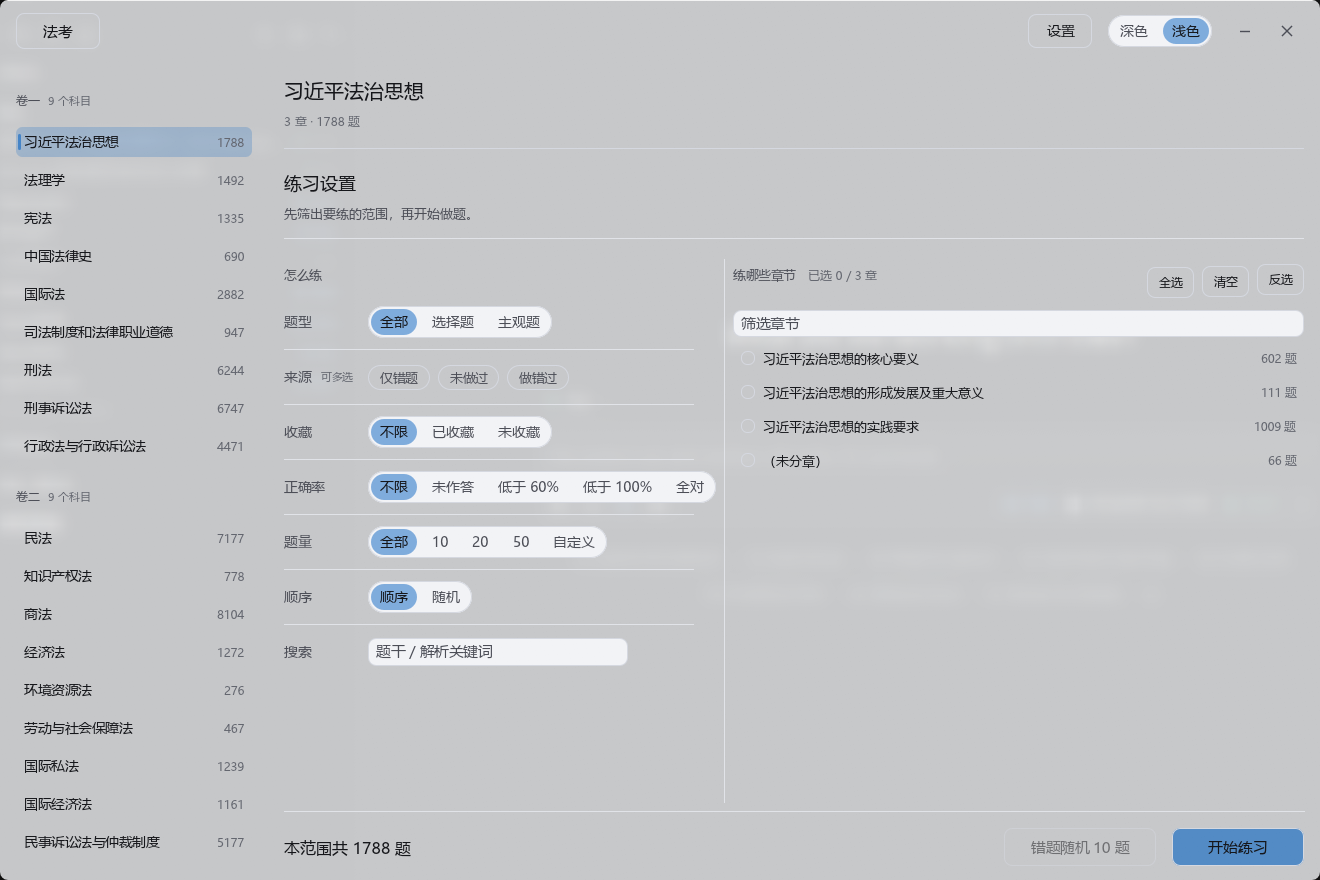
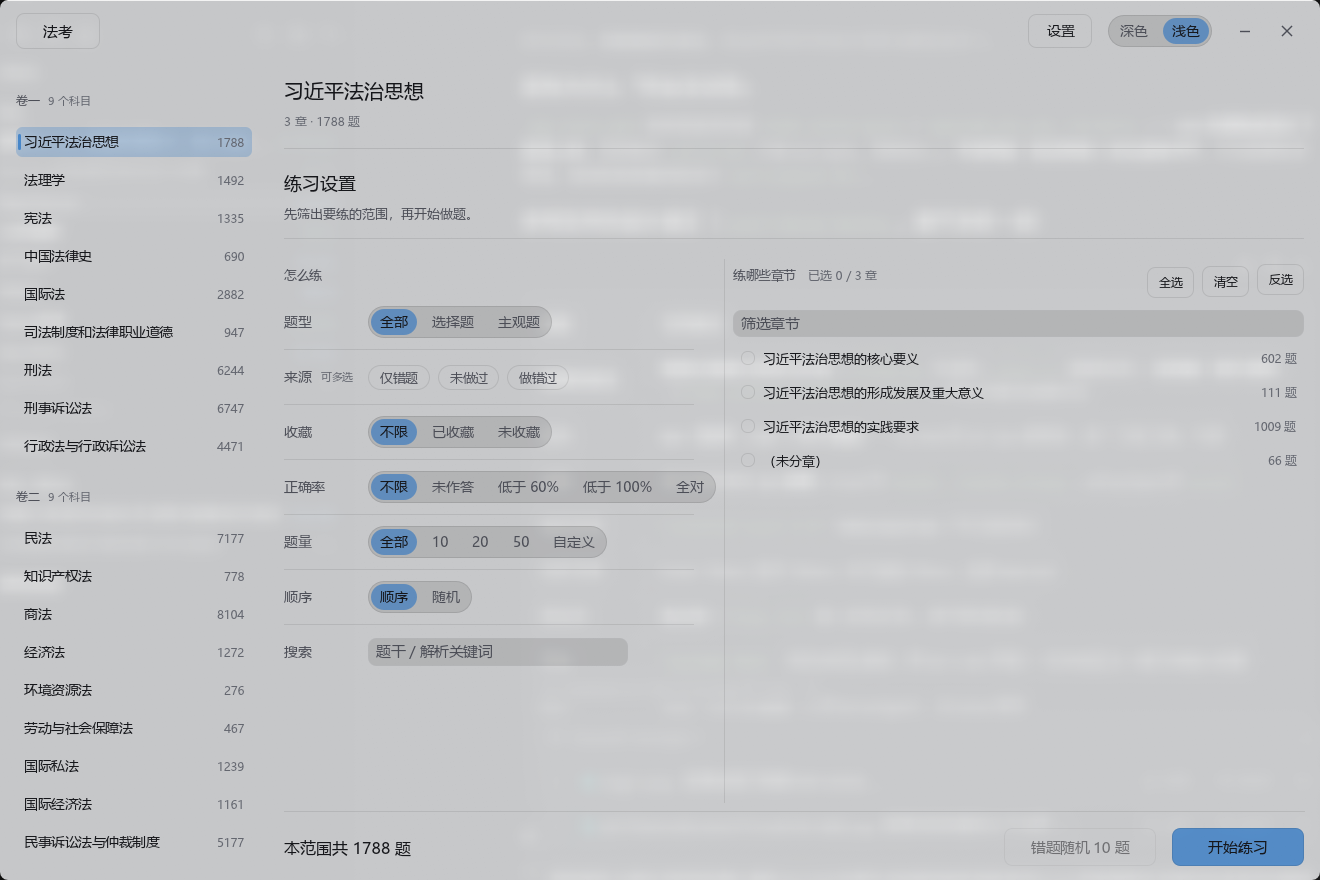
theme: make the light theme's surfaces washes, not opaque slabs
The light body is a translucent sheet, so its reading follows the desktop
(~200 over a dark one, ~244 over a light one). An opaque surface cannot stay
on the right side of that: the reference's `surface-2` #F0F1F4 and `well`
#F2F3F6 read as white slabs floating on the frosted body -- most visibly the
segmented control's track, which came out brighter than everything around it.

So the light surfaces are washes, as the dark theme's already were:

  fill_strong  #F0F1F4 opaque  -> rgba(255, 255, 255, 140)  a raised row
  fill_sunken  #F2F3F6 opaque  -> rgba(0, 0, 0, 26)         a sunken track
  stroke       #D5D8E0 opaque  -> rgba(0, 0, 0, 24)         (below fill_sunken)
  divider      #E1E3E8 opaque  -> rgba(0, 0, 0, 22)

A track is now always a recess and a row always a lift, whatever the body
reads at that moment. The opaque #D5D8E0 hairline was the same problem in
miniature: a light line over a dark desktop and a dark one over a bright
desktop.

The modal stays opaque (`solid` #FFFFFF): its backdrop is the app, not the
desktop, so nothing may show through it. Regions stay transparent and the
sheet keeps the reference's #F4F5F7, so the light theme is still see-through.

`surfaces_are_translucent_but_visible` now asserts the light washes, and
light-practice / light-session-counts are re-shot.

diff --git a/src/bin/studyapp/theme/tokens.rs b/src/bin/studyapp/theme/tokens.rs
@@ -270,18 +270,30 @@ impl Palette {
                 scrim: rgba(244, 245, 247, 228),
             },
             glass: Glass {
-                // The reference's split, and the reason its light theme is both
-                // see-through and bright: its panels are `transparent` (the root
-                // paints `window-bg` once) and only its surfaces are opaque. So
-                // our regions are the sheet itself -- the frosted desktop shows
-                // through the body -- while rows, wells and the modal stay
-                // opaque and crisp.
+                // Regions are the sheet itself -- the reference's panels are
+                // `transparent` and the root paints `window-bg` once -- so the
+                // frosted desktop shows through the body.
+                //
+                // The raised and sunken surfaces are *washes* rather than the
+                // reference's opaque `#F0F1F4` / `#F2F3F6`. A translucent body
+                // reads ~200 over a dark desktop and ~244 over a light one, so
+                // an opaque surface cannot stay on the right side of it: those
+                // two colours read as white slabs floating on the frosted body
+                // (a segmented track brighter than everything around it). A
+                // light wash lifts a row and a dark wash recesses a track,
+                // whatever the body happens to read at that moment.
                 fill: rgba(255, 255, 255, 0),
-                fill_strong: rgb(240, 241, 244),
-                fill_sunken: rgb(242, 243, 246),
+                fill_strong: rgba(255, 255, 255, 140),
+                fill_sunken: rgba(0, 0, 0, 26),
+                // Floating layers stay opaque: their backdrop is the app, not
+                // the desktop, so nothing may show through them.
                 solid: rgb(255, 255, 255),
-                stroke: rgb(213, 216, 224),
-                divider: rgb(225, 227, 232),
+                // Hairlines are washes too, for the same reason: an opaque
+                // #D5D8E0 is a light line over a dark desktop and a dark one
+                // over a bright desktop. Below `fill_sunken`, so an edge still
+                // recedes under the well it outlines.
+                stroke: rgba(0, 0, 0, 24),
+                divider: rgba(0, 0, 0, 22),
             },
             ink: Ink {
                 primary: rgb(21, 22, 26),
@@ -444,11 +456,13 @@ mod tests {
 
     #[test]
     fn surfaces_are_translucent_but_visible() {
-        // Dark keeps translucent washes over the sheet. Light copies the
-        // reference app's split: its panels are transparent and the root paints
-        // the translucent `window-bg` once, so our regions carry no fill of
-        // their own and the frosted desktop shows through the body -- while the
-        // rows, wells and modal stay opaque and crisp.
+        // Dark keeps translucent washes over the sheet. Light keeps the
+        // reference app's split -- its panels are transparent and the root
+        // paints the translucent `window-bg` once, so our regions carry no fill
+        // of their own and the frosted desktop shows through the body -- but
+        // its raised and sunken surfaces are washes too, because an opaque
+        // surface cannot stay on the right side of a body whose reading follows
+        // the desktop. The modal stays opaque: its backdrop is the app.
         let g = Tokens::new(Mode::Dark).palette.glass;
         assert!(g.fill.a() > 8, "a dark surface must be visible against the backdrop");
         assert!(g.fill.a() < 70, "but translucent, not an opaque slab");
@@ -460,12 +474,25 @@ mod tests {
 
         let l = Tokens::new(Mode::Light).palette.glass;
         assert_eq!(l.fill.a(), 0, "light regions are the sheet, as the reference's panels are");
-        assert_eq!(l.solid.a(), 255, "the modal stays opaque, as the reference's surface");
-        assert_eq!(l.fill_strong.a(), 255, "rows and buttons are opaque");
-        assert_eq!(l.fill_sunken.a(), 255, "and so are wells");
-        assert_eq!(l.divider.a(), 255, "opaque hairline colours, as in the reference");
-        assert_eq!(l.stroke.a(), 255);
-        assert!(l.fill_strong.r() > 200 && l.fill_strong.g() > 200, "and light, got {l:?}");
+        assert_eq!(l.solid.a(), 255, "the modal stays opaque: its backdrop is the app");
+        // The raised and sunken surfaces are washes, not opaque colours: the
+        // body is translucent, so an opaque #F0F1F4 / #F2F3F6 track reads as a
+        // white slab on it (a track brighter than everything around it).
+        assert!(
+            l.fill_strong.a() > 60 && l.fill_strong.a() < 200,
+            "a raised row is a light wash, not a slab, got alpha {}",
+            l.fill_strong.a()
+        );
+        assert!(
+            l.fill_sunken.a() > 0 && l.fill_sunken.a() < 60,
+            "a track is a dark wash, got alpha {}",
+            l.fill_sunken.a()
+        );
+        assert!(
+            l.stroke.a() > 0 && l.stroke.a() <= l.fill_sunken.a(),
+            "and the edge recedes under the well it outlines"
+        );
+        assert!(l.divider.a() > 0 && l.divider.a() < 60, "a hairline, not a rule");
 
         // Floating layers (popups / menus) are opaque in both modes -- a
         // translucent popup over the app reads as frosted glass, not a raised

diff --git a/DESIGN.md b/DESIGN.md
@@ -225,9 +225,9 @@ GUI 拆成入口 + 六个模块：`main.rs`（入口，仅 `mod` 声明 + `fn ma
 | --- | --- |
 | 界面更黑 / 更灰 | `background.base_top` / `base_bottom`（深色 30→16；浅色 247→238） |
 | 背景更透（看到更多桌面） | 设置 → 外观的**透明度**滑杆（scrim alpha = `255*(1-t/100)`，默认 20 → 204） |
-| 表面更亮 / 更分明 | 深色：`glass.fill` / `fill_strong` 的 alpha（白 18 / 32）；浅色：**不透明**表面色（`rgb(255,255,255)` / `rgb(240,241,244)`） |
-| 描边更淡 / 边缘不抢戏 | `glass.stroke`（深色白 **14**，低于 `fill` 18；浅色 `rgb(213,216,224)`） |
-| 分隔线更明显 / 更淡 | `glass.divider`（深色 alpha 24；浅色 `rgb(225,227,232)`） |
+| 表面更亮 / 更分明 | `glass.fill` / `fill_strong` / `fill_sunken` 的 alpha（深色白 18 / 32、黑 72；浅色透明 / 白 140 / 黑 26） |
+| 描边更淡 / 边缘不抢戏 | `glass.stroke`（深色白 **14**，低于 `fill` 18；浅色黑 **24**，低于 `fill_sunken` 26） |
+| 分隔线更明显 / 更淡 | `glass.divider` 的 alpha（深色 24；浅色 22） |
 | 下拉 / 提示浮层更亮或更暗 | `glass.solid`（浮层实心底色：深色 rgb(30,30,33) / 浅色 rgb(255,255,255)） |
 | 换色调 | `background.blobs` 与 `accent.*`（深色 rgb(110,132,168) / 浅色 rgb(10,99,194)） |
 
@@ -236,10 +236,17 @@ GUI 拆成入口 + 六个模块：`main.rs`（入口，仅 `mod` 声明 + `fn ma
 > alpha 由**透明度**设置驱动（默认 20 → 204）。
 >
 > **浅色模式照抄参考项目的分层**：它的面板是 `transparent`（根节点只画一次 `window-bg`），
-> 只有 `surface` / `surface-2` / `well` 是不透明的。所以本应用的三个区域
-> （顶栏 / 左栏 / 主区，`glass.fill`）**不带自己的底色**，浅色下就是那张半透明的底 ——
-> 桌面透出来，正文是磨砂的；而**行、井、弹窗保持不透明**（`fill_strong` `#F0F1F4`、
-> `fill_sunken` `#F2F3F6`、`solid` `#FFFFFF`），所以控件和设置弹窗始终清晰、永远「是对的」。
+> 所以本应用的三个区域（顶栏 / 左栏 / 主区，`glass.fill`）**不带自己的底色**，浅色下就是那张
+> 半透明的底 —— 桌面透出来，正文是磨砂的。
+>
+> **但行与井不能用参考项目的不透明 `surface-2` / `well`**：正文是半透明的，读数随桌面走
+> （深色桌面约 200、亮色桌面约 244），固定的不透明色没法永远待在它的正确一侧 ——
+> `#F0F1F4` / `#F2F3F6` 会读成漂在磨砂正文上的**白块**（分段控件的轨道比周围一切都亮，
+> 用户就是这么指出来的）。所以行是**浅色洗**（`fill_strong` 白 140）、井是**深色洗**
+> （`fill_sunken` 黑 26）：轨道永远比正文暗一点、行永远比正文亮一点，跟正文当时读到多少无关。
+> 发丝线同理走洗色（`stroke` 黑 24、`divider` 黑 22），因为不透明的 `#D5D8E0` 在深色桌面上是亮线、
+> 在亮色桌面上是暗线。**只有弹窗保持不透明**（`solid` `#FFFFFF`）—— 它的底是应用自己，
+> 不是桌面，所以设置弹窗在任何透明度下都是「对的」。
 >
 > 代价是算术，不是 bug：浅色底在**深色**桌面上的读数 = `0.8 × 244 + 0.2 × 桌面`，
 > 默认 20 时约 **200**；想要更亮就把**透明度**滑到 0（读数 244，完全不透明）。
@@ -258,7 +265,7 @@ GUI 拆成入口 + 六个模块：`main.rs`（入口，仅 `mod` 声明 + `fn ma
 `theme/` 里十个测试守住两种模式的调色与浮层规则：`palette_is_dark_and_readable` /
 `light_palette_is_light_and_readable`（各自的底色 / 文字对比，浅色 scrim 浅且近乎实心，深色 scrim 深且近乎实心）/
 `accent_is_muted_not_saturated`（深色保持中性；浅色是参考项目的实蓝色） / `surfaces_are_translucent_but_visible`（深色：
-表面够透但可辨；浅色：区域不带底色、行 / 井 / 弹窗不透明且留在本模式色系） / `edges_recede_and_selection_is_a_tint`（描边低于表面、
+表面够透但可辨；浅色：区域不带底色、行是浅色洗 / 井是深色洗 / 弹窗不透明，且都留在本模式色系） / `edges_recede_and_selection_is_a_tint`（描边低于表面、
 染色填充是透明色不是实心块） / `mode_ids_round_trip`（`user.json` 的 `theme` 值解析），
 以及 `popups_are_flush_not_floating_glass`（**两种模式**：`Frame::popup` 读的 `window_fill` 必须不透明、
 `popup_shadow` 必须为 `NONE`、无顶边亮带、`menu_corner_radius` 与按钮一致）
